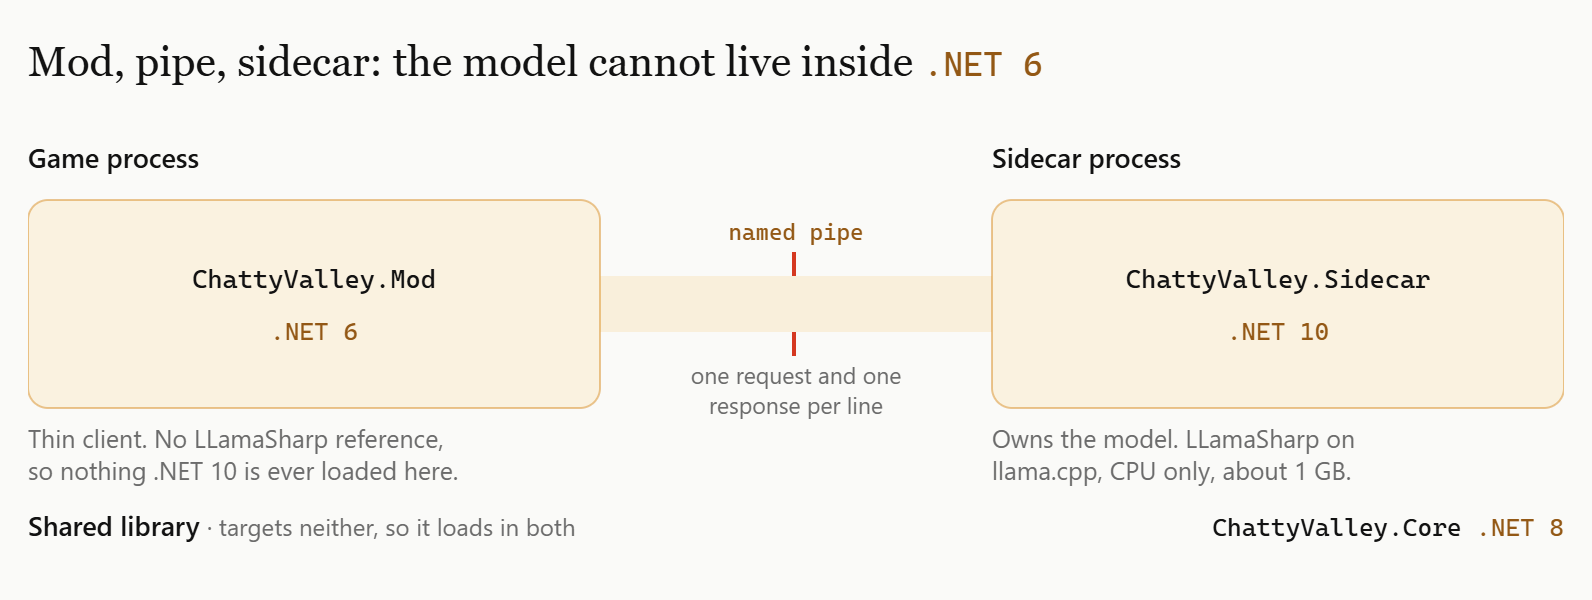
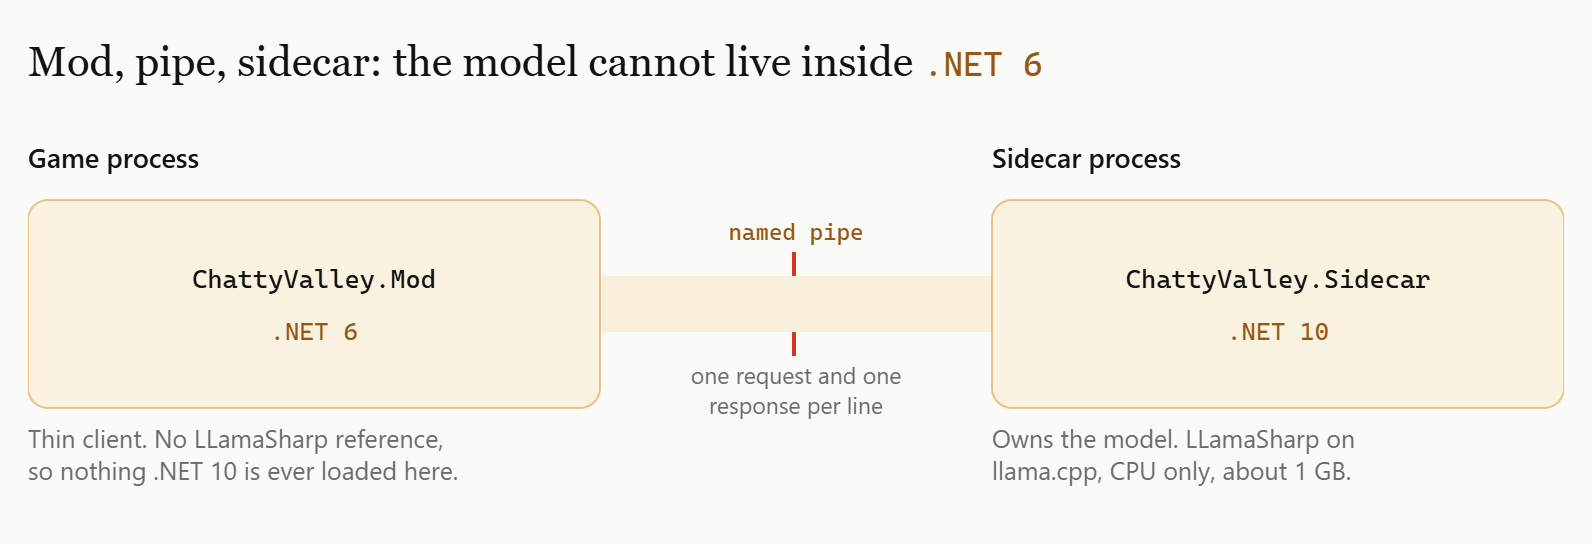
docs: simplified runtime figure, framework trivia out
The .NET 8 and ChattyValley.Core .NET 6 labels are gone from the diagram.
The second one sat under a headline saying the model cannot live inside
.NET 6, which read as a contradiction. Both details stay in the prose,
where the reason can be given.

diff --git a/docs/build-story.md b/docs/build-story.md
@@ -49,7 +49,7 @@ The fix is a sidecar. `ChattyValley.Sidecar` is a separate .NET 10 process that 
 
 There is a third target framework in there too, which took an embarrassing amount of time to pin down: the shared runtime library sits on .NET 8, because compiling it against .NET 6 produced a binary that loaded fine and then threw a missing method exception on `DefaultSamplingPipeline.set_Temperature` at runtime, inside the .NET 10 process. Three target frameworks, all load-bearing, none of them unifiable.
 
-![The three-runtime split: the mod on .NET 6, the sidecar on .NET 10, a named pipe as the only thing crossing the boundary, and ChattyValley.Core on .NET 6 as the shared contract](media/runtimes.png)
+![The process split: the mod on .NET 6, the sidecar on .NET 10, and a named pipe as the only thing crossing the boundary](media/runtimes.png)
 
 I am not thrilled about shipping an .exe inside a mod folder, and Nexus users are right to be suspicious of one. I would be too, and frequently am, about other people's mods.
 
